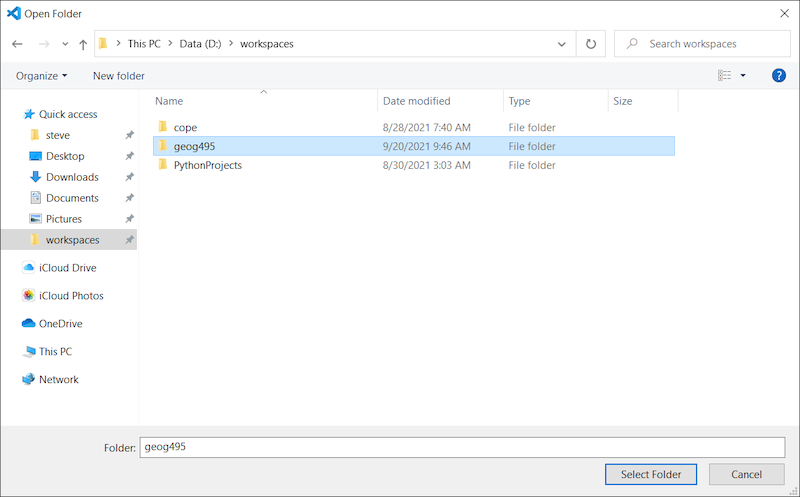
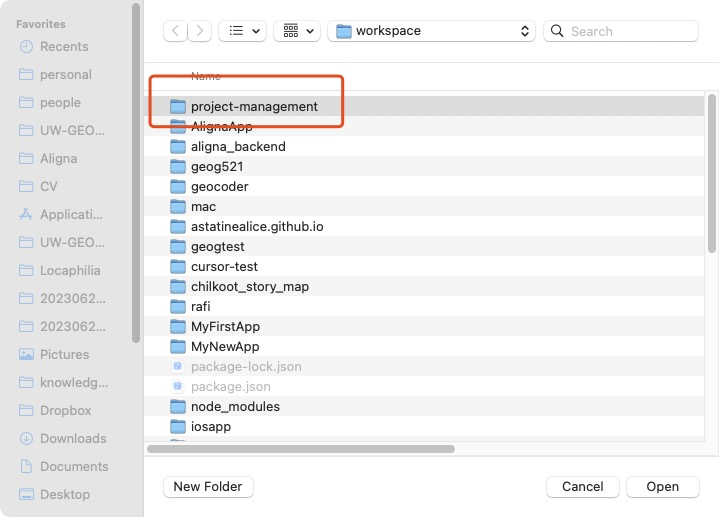
update

diff --git a/README.md b/README.md
@@ -1,6 +1,6 @@
-# Lab 1: Project management using GitHub
+# Project management using GitHub
 
-**Instructor:** Bo Zhao, 206.685.3846 or zhaobo@uw.edu; **Points Available** = 50
+**Author:** Bo Zhao, 206.685.3846 or zhaobo@uw.edu; **Points Available** = 50
 
 In this lab, we will briefly introduce how to set up the project environment, how to synchronize the course material, and more importantly to help you get familiar with the major operations on project management using GitHub. You will need to install the required software on your own PC or Mac, register a GitHub account, and then learn how to use git, visual studio code and github. To test the learning outcomes, you will be asked to create a GitHub repository to publish your resume page on the web. Okay, let us get started!
 
@@ -25,7 +25,6 @@ Visual Studio Code is a customizable IDE, so to fully prepare it for web program
 
 - Markdown Preview Enhanced
 - Live Server
-- Beautify (Recently this extension has been marked as "deprecated" as it is no longer being maintained. You may choose to install it or not. But we think this is still a very handy tool for quickly formatting and styling the code.)
 
 ![install-vscodeext](img/install-vscodeext.png)
 
@@ -45,13 +44,13 @@ A GitHub account is needed for managing and synchronizing your cloud based proje
 
 ## 2\. Download the course material
 
-I decide to host all course material on GitHub instead of Canvas system. By doing so, my goal is not to create extra trouble or sharp the learn curve. Instead, hosting on github will help you save a lot of time in downloading or migrating course materials, testing lab or lecture applications. Also, more practically, a lot of companies in the geospatial industries have already used github for their project management, such as [ESRI](https://github.com/Esri), [CartoBD](https://github.com/CartoDB), [MapBox](https://github.com/mapbox), and etc. To prepare you with the capabilities of using github, you will be familiar with an industry-level project management approach. In this lab, let us go through the procedure of downloading the course material as below.
+I decide to host all course material on GitHub instead of Canvas system. By doing so, my goal is not to create extra trouble or sharp the learn curve. Instead, hosting on github will help you save a lot of time in downloading or migrating course materials, testing lab or lecture applications. Also, more practically, a lot of companies in the geospatial industries have already used github for their project management, such as [ESRI](https://github.com/Esri), [CartoBD](https://github.com/CartoDB), [MapBox](https://github.com/mapbox), and etc. To prepare you with the capabilities of using github, you will be familiar with an industry-level project management approach. In this lab, let us go through the procedure of downloading the lab material as below.
 
-1\. On GitHub, each project is stored as a project repository. The repository for this course is located at [https://github.com/jakobzhao/geog458](https://github.com/jakobzhao/geog458). Please navigate to this url on a browser such as `Chrome`. As indicated by the course website url, this repository is created by me; my GitHub account name is `jakobzhao`, while the repository name is `geog458`.
+1\. On GitHub, each project is stored as a project repository. The repository for this Lab is located at [https://github.com/jakobzhao/project-management](https://github.com/jakobzhao/project-management). Please navigate to this url on a browser such as `Chrome`. As indicated by the course website url, this repository is created by me; my GitHub account name is `jakobzhao`, while the repository name is `project-management`.
 
 2\. On the front page of this repository, please click the green button named after `Clone or download` . To download the course material, you can click the `Download ZIP` button, as a result, a compressed file of the course material will be downloaded.
 
-3\. However, **we recommend you to clone this project repository**. You can get the **git url** of this repository on the same information window. The git url is [https://github.com/jakobzhao/geog458.git](https://github.com/jakobzhao/geog458.git).
+3\. However, **we recommend you to clone this project repository**. You can get the **git url** of this repository on the same information window. The git url is [https://github.com/jakobzhao/project-management.git](https://github.com/jakobzhao/project-management.git).
 
 4\. Next, open your working space on your local computer through command prompt if you are on Windows or through terminal if you are on a Mac. Here, the working space is just a centralized folder on your local computer where you can store your working materials. For me, I created a working folder to locally store my github repositories. For example, the working space of my computer is located as `C:\Workspace`. But it is up to you under which folder or path to put the workspace folder.
 
@@ -60,11 +59,11 @@ C:\Users\[windows_or_macosx_username]>cd C:\Workspace
 C:\Workspace>
 ```
 
-5\. Once acquiring the **git url** -  https://github.com/jakobzhao/geog458.git, we use the command `git clone` to clone the GitHub repository to your local computer.
+5\. Once acquiring the **git url** -  https://github.com/jakobzhao/project-management.git, we use the command `git clone` to clone the GitHub repository to your local computer.
 
  ```powershell
-C:\Workspace\>git clone https://github.com/jakobzhao/geog458.git
-Cloning into 'geog458'...
+C:\Workspace\>git clone https://github.com/jakobzhao/project-management.git
+Cloning into 'project-management'...
 remote: Counting objects: 962, done.
 remote: Compressing objects: 100% (750/750), done.
 remote: Total 962 (delta 214), reused 917 (delta 177), pack-reused 0Receiving objects:  99% (953/962), 158.77 MiB | 1.60 MiB/s
@@ -76,13 +75,13 @@ Checking out files: 100% (650/650), done.
 6\. To review the files and folders in the downloaded/cloned repository, you need to `cd` into the root directory of this repository. If you are on a Mac or Linux, type `ls` to check the file list of this repository, or try `dir` if you are on a Windows. Take windows for example.
 
 ```powershell
-C:\Workspace>cd geog458
+C:\Workspace>cd project-management
 
-C:\Workspace\geog458>dir
+C:\Workspace\project-management>dir
 Volume in drive C has no label.
 Volume Serial Number is 3E8C-9A9E
 
-Directory of C:\Workspace\geog458
+Directory of C:\Workspace\project-management
 
 09/20/2021  09:46 AM    <DIR>          .
 09/20/2021  09:46 AM    <DIR>          ..
@@ -96,15 +95,13 @@ Directory of C:\Workspace\geog458
                4 Dir(s)  898,906,136,576 bytes free
 ```
 
-In the root directory of geog458, there are folders like assets, labs, and files like readme.md and LICENSE.
-
-![](img/git-clone-geog595.gif)
+In the root directory of project-management, there are folders like assets, labs, and files like readme.md and LICENSE.
 
 7\. Next, we open the `readme.md` file using `Visual Studio Code`. To do that, make sure you have installed the program `Visual Studio Code` and the recommended packages, such as `Markdown Preview Enhanced`.
 
-Once `Visual Studio Code` is opened, press `ctrl+k` and then `ctrl+o` to open the open folder window, navigate to `geog458` folder from your workspace and press `select folder`. Then the `geog458` repo will be opened, and a file tree will be shown in the project list panel on the left of the vscode window.
+Once `Visual Studio Code` is opened, press `ctrl+k` and then `ctrl+o` to open the open folder window, navigate to `project-management` folder from your workspace and press `select folder`. Then the `project-management` repo will be opened, and a file tree will be shown in the project list panel on the left of the vscode window.
 
-**Note:** Your folder name should be geog458. The below screenshot is only to give you an idea of what window you will see.
+**Note:** Your folder name should be project-management. The below screenshot is only to give you an idea of what window you will see.
 
 ![](img/vscode-open-project.png)
 
@@ -115,15 +112,15 @@ In the project list panel, navigate to the `README.md` in the project tree panel
 8\. Once the course material is hosted on GitHub, it can be easily shared with a larger community. To synchronize the course material on remote GitHub repository to your local computer, you need to implement two sequential command lines `git checkout --force` and `git pull` in the root directory of the repository. Once the two commands are executed. An update notice will be shown as below.
 
 ```powershell
-C:\Workspace\geog458>git checkout --force
+C:\Workspace\project-management>git checkout --force
 Your branch is up-to-date with 'origin/main'.
 
-C:\Workspace\geog458>git pull
+C:\Workspace\project-management>git pull
 remote: Counting objects: 3, done.
 remote: Compressing objects: 100% (3/3), done.
 remote: Total 3 (delta 2), reused 0 (delta 0), pack-reused 0
 Unpacking objects: 100% (3/3), done.
-From https://github.com/jakobzhao/geog458
+From https://github.com/jakobzhao/project-management
    13b2cab..baf74b1  main     -> origin/main
 Updating 13b2cab..baf74b1
 Fast-forward
@@ -139,7 +136,7 @@ If you implement the above two commands in a Mac or Linux system, you might need
 
 9\. Before we jump to the next section, please:
 
-- Star the course repository [https://github.com/jakobzhao/geog458](https://github.com/jakobzhao/geog458) by pressing the `star` button on the top right, and;
+- Star the course repository [https://github.com/jakobzhao/project-management](https://github.com/jakobzhao/project-management) by pressing the `star` button on the top right, and;
 
 - Navigate to Dr. Zhao's front page at [https://github.com/jakobzhao](https://github.com/jakobzhao), and click the `Follow` button to be a follower.
 
@@ -370,6 +367,5 @@ Before submitting the deliverable, please make sure the **GitHub Pages** work pr
 * A list;
 
 5\. Create a website under this newly created repository. This website can be [an online resume](https://startbootstrap.com/themes/resume/), [a project gallary](https://startbootstrap.com/template/shop-homepage), [a project webiste](https://startbootstrap.com/themes/creative/), [an administrator dashboard](https://startbootstrap.com/themes/sb-admin-2/) and so on. I encourage you use any bootstrap5 template on [Start Bootstrap](https://startbootstrap.com/), and further modify the webpage if needed. You are not expected to make a complicated websites of several pages, but at least, a website represents some idea you planned to work on.(15 POINTS)
-
 
 **Note:** Lab assignments are required to be submitted electronically to Canvas unless stated otherwise. Efforts will be made to have them graded and returned within one week after they are submitted.Lab assignments are expected to be completed by the due date. ***A late penalty of at least 10 percentage units will be taken off each day after the due date.*** If you have a genuine reason(known medical condition, a pile-up of due assignments on other courses, ROTC,athletics teams, job interview, religious obligations etc.) for being unable to complete work on time, then some flexibility is possible. However, if in my judgment you could reasonably have let me know beforehand that there would likely be a delay, and then a late penalty will still be imposed if I don't hear from you until after the deadline has passed. For unforeseeable problems,I can be more flexible. If there are ongoing medical, personal, or other issues that are likely to affect your work all semester, then please arrange to see me to discuss the situation. There will be NO make-up exams except for circumstances like those above.
